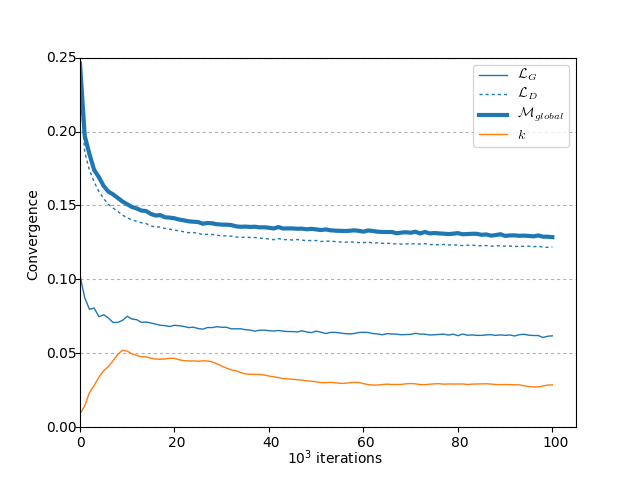
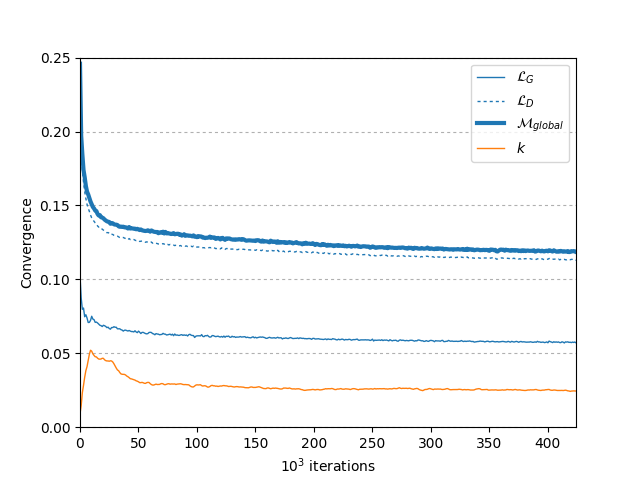
Update sample

diff --git a/README.md b/README.md
@@ -14,7 +14,7 @@ python train.py --celeba-root celeba/CelebA --batch-size 16 --iterations 10000 -
 
 ## Samples
 
-![](images/sample_101000.png)
+![](images/sample_421000.png)
 
 ## Loss
 
